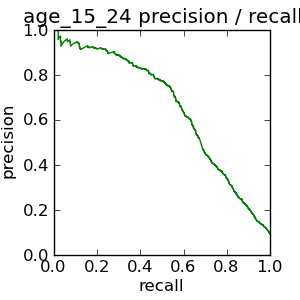
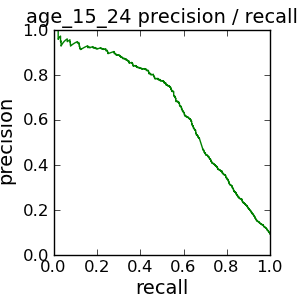
changed graphs font sizes

diff --git a/vb/demog3/tools.py b/vb/demog3/tools.py
@@ -76,10 +76,10 @@ def roc_graph(segment):
     plt.gcf().subplots_adjust(bottom=0.15)
     plt.gcf().subplots_adjust(left=0.18)
     plt.plot(fpr, tpr, 'g-')
-    plt.xlabel('false positive rate')
-    plt.ylabel('true positive rate')
+    plt.xlabel('false positive rate', fontsize=14)
+    plt.ylabel('true positive rate', fontsize=14)
     plt.axis([0, 1, 0, 1])
-    plt.title(segment + ' ROC')
+    plt.title(segment + ' ROC', fontsize=14)
     plt.savefig('graphs/' + segment + '_roc.png')
 
 
@@ -96,8 +96,8 @@ def precision_recall_graph(segment):
     plt.gcf().subplots_adjust(bottom=0.15)
     plt.gcf().subplots_adjust(left=0.18)
     plt.plot(recall, precision, 'g-')
-    plt.xlabel('recall')
-    plt.ylabel('precision')
+    plt.xlabel('recall', fontsize=14)
+    plt.ylabel('precision', fontsize=14)
     plt.axis([0, 1, 0, 1])
-    plt.title(segment + ' precision / recall')
+    plt.title(segment + ' precision / recall', fontsize=14)
     plt.savefig('graphs/' + segment + '_precision_recall.png')
